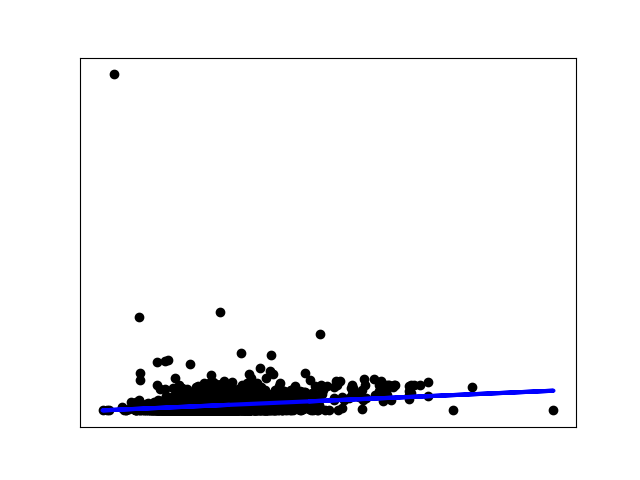
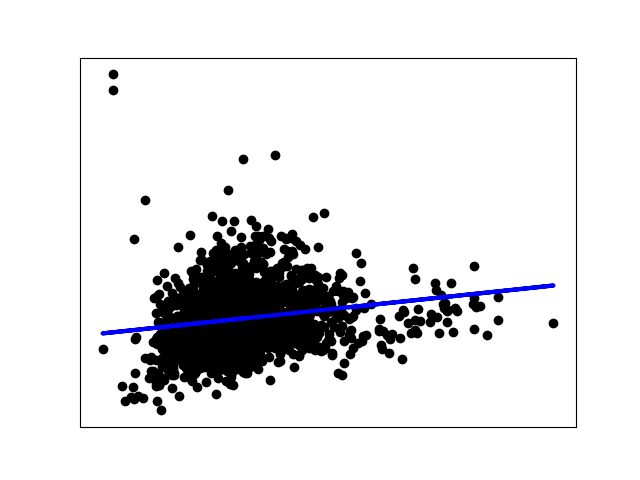
finished running regression

diff --git a/Processing/simple_regression.py b/Processing/simple_regression.py
@@ -11,14 +11,13 @@ split2 = split1 + num_trips * 3 // 20
 
 pke = df['Aggressiveness']
 pf = df['Aggressivity']
-fuel = df['Fuel Consumed[L]']
+fuel = df['Fuel Economy[mpg]']
 
 idx = pke.isna() | pf.isna() | fuel.isna() | np.isinf(pke) | np.isinf(pf) | np.isinf(fuel)
+print('any true', idx.any())
 pke = pke[~idx]
 pf = pf[~idx]
 fuel = fuel[~idx]
-
-
 
 print(pke[pke.isna()])
 print(pf[pf.isna()])
@@ -27,7 +26,6 @@ print(fuel[fuel.isna()])
 print(sum(pke))
 print(sum(pf))
 print(sum(fuel))
-
 
 X1_train = np.array(pke[:split1]).reshape(-1, 1)
 X1_val = np.array(pke[split1:split2]).reshape(-1, 1)
@@ -50,6 +48,7 @@ val1_score = reg1.score(X1_val, y_val)
 val2_score = reg2.score(X2_val, y_val)
 
 y1_pred = reg1.predict(X1_test)
+y2_pred = reg2.predict(X2_test)
 
 print('Train Scores')
 print(f'PKE: {train1_score}\tPF: {train2_score}')
@@ -63,3 +62,11 @@ plt.xticks(())
 plt.yticks(())
 
 plt.savefig('pke_simplereg.png')
+
+plt.scatter(X2_test, y_test,color='black')
+plt.plot(X2_test, y2_pred, color='blue', linewidth=3)
+
+plt.xticks(())
+plt.yticks(())
+
+plt.savefig('pf_simplereg.png')
